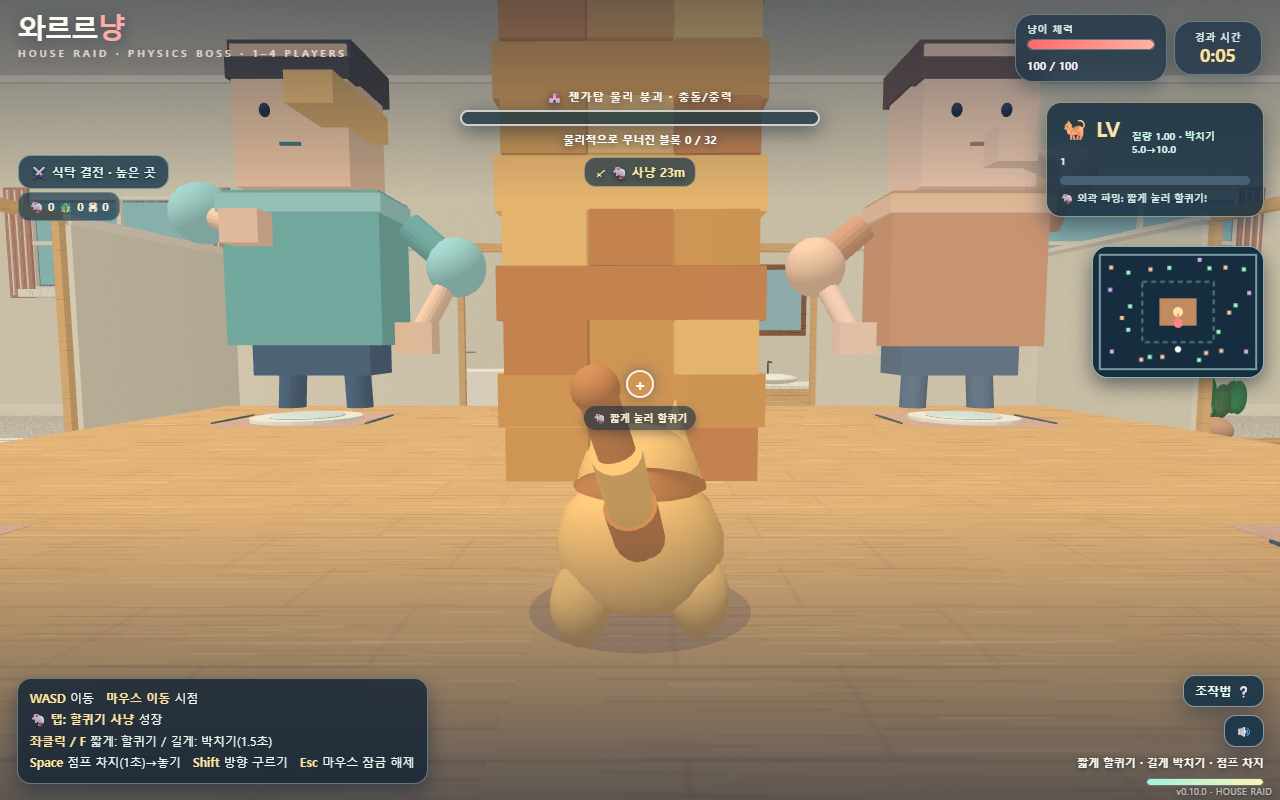
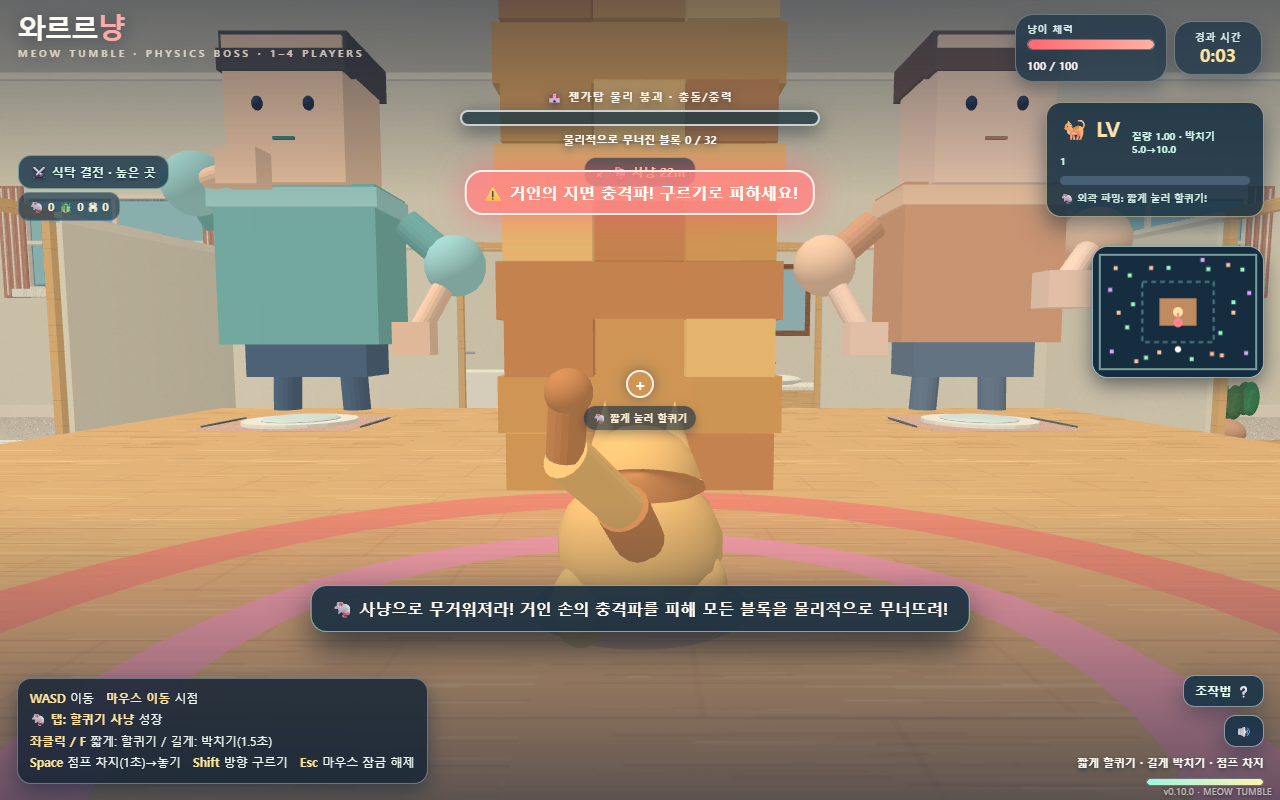
[docs] 화면과 진단 게임명을 와르르냥으로 통일

diff --git a/index.html b/index.html
@@ -127,12 +127,12 @@
 </head>
 <body>
 <div id="app">
- <canvas id="game" tabindex="0" aria-label="3D 고양이 젠가 게임"></canvas>
+ <canvas id="game" tabindex="0" aria-label="와르르냥 / Meow Tumble"></canvas>
  <div id="lookZone" aria-label="오른쪽 화면을 드래그하여 시점 회전"></div>
  <div id="boot">고양이에게 힘을 불어넣는 중… 🐈</div>
  <div id="error"></div>
  <div id="hud" class="inactive">
-  <div class="ui topbar"><div class="brand"><strong>와르르<b>냥</b></strong><span>HOUSE RAID · PHYSICS BOSS · 1–4 PLAYERS</span></div><div class="stats"><div class="stat heart"><span class="tiny">냥이 체력</span><div class="hpTrack"><i id="hpFill"></i></div><strong class="hpLabel" id="hpText">100 / 100</strong></div><div class="stat clock"><span class="tiny">경과 시간</span><strong id="clock">0:00</strong></div></div></div>
+  <div class="ui topbar"><div class="brand"><strong>와르르<b>냥</b></strong><span>MEOW TUMBLE · PHYSICS BOSS · 1–4 PLAYERS</span></div><div class="stats"><div class="stat heart"><span class="tiny">냥이 체력</span><div class="hpTrack"><i id="hpFill"></i></div><strong class="hpLabel" id="hpText">100 / 100</strong></div><div class="stat clock"><span class="tiny">경과 시간</span><strong id="clock">0:00</strong></div></div></div>
   <div class="ui centerHead"><div class="progressTitle">🏰 젠가탑 물리 붕괴 · 충돌/중력</div><div class="progressBox"><div class="progressFill" id="progressFill"></div></div><div class="progressFraction" id="fraction">물리적으로 무너진 블록 0 / 32</div></div>
  <div class="ui growthHud" id="growthHud"><div class="growthTop"><strong>🐈 LV <span id="level">1</span></strong><span id="power">질량 1.00 · 박치기 5~10</span></div><div class="growthBar"><i id="xpFill"></i></div><div class="growthHelp" id="growthHelp">🐁 쥐·곤충은 짧게 할퀴고, 탑은 차지 박치기로 무너뜨리세요</div></div>
  <div class="ui farmArrow" id="farmArrow">🐁 사냥터</div>
@@ -150,7 +150,7 @@
   <div class="bottomRight"><button id="helpBtn" class="tool">조작법 ❔</button><button id="soundBtn" class="tool">🔊</button><div id="status" class="status">박치기 1.5초 · 점프 1초 차지</div><div class="dashbar"><i id="dashReady"></i></div></div>
  </div>
  <div id="netRoster" aria-label="멀티플레이 참가자"></div><div id="netLabels" aria-hidden="true"></div>
- <div id="buildTag">v0.10.0 · HOUSE RAID</div>
+ <div id="buildTag">v0.10.0 · MEOW TUMBLE</div>
  <div id="touch"><div id="stick" class="joystick"><div id="knob" class="knob"></div></div><div class="actionPad"><button type="button" class="action" data-action="charge" aria-label="짧게 누르면 할퀴기, 0.25초 이상 길게 누르고 떼면 박치기"><strong>🐾</strong><small>탭 할퀴기 · 홀드 박치기</small><span class="chargeTrack"><i id="touchChargeFill"></i></span></button><button type="button" class="action" data-action="jump" aria-label="점프: 1초까지 누르고 떼서 점프"><strong>↥</strong><small>길게 눌러 점프</small><span class="chargeTrack jumpTrack"><i id="touchJumpFill"></i></span></button><button type="button" class="action" data-action="dodge"><strong>↻</strong><small>구르기</small></button></div><div class="touchTooltip">왼쪽 이동 · 오른쪽 화면 드래그로 시점 회전</div></div>
  <section id="intro" class="cover"><div class="hero"><div class="eyebrow">MEOW TUMBLE · 고양이 반란 작전</div><h1>와르르<em>냥</em></h1><p>인간 둘이 쌓는 <b>고양이보다 훨씬 거대한 젠가탑.</b><br>처음에는 몸이 가벼워 탑에 거의 충격을 못 줍니다.<br><b>집 전체를 누비며 <b>도망가는 쥐와 곤충, 공격하는 거미</b>를 사냥해 질량을 키우세요. 중앙 식탁으로 올라가 두 거인의 손을 피하면서 젠가탑을 물리적으로 무너뜨리세요. 체력이 0이 되어도 <b>성장·탑 진행도 손실 없이 고양이 잠자리에서 부활</b>합니다.</p><div class="pills"><span class="pill">🐈 작은 고양이 vs 거인 둘</span><span class="pill">🐁 쥐·곤충·거미 사냥 · 성장</span><span class="pill">💥 거인의 지면 충격파 · 공중 튕김</span><span class="pill">🏰 무너지는 거대 탑</span></div><button id="startBtn" type="button" class="primary">🐾 싱글 플레이 시작 →</button>
 <div class="roomSetup">
@@ -164,7 +164,7 @@
 </div>
 <script type="module">
 /* Bloom GameKit · v0.3.0 pinned published dist commit (2026-10-14). No duplicate input/loop/PRNG engine.
- * The 3D renderer, Rapier physics, gameplay and presentation remain owned by do meow no.
+ * The 3D renderer, Rapier physics, gameplay and presentation remain owned by Meow Tumble.
  * Browser WebRTC uses the official group-room transport, never a second signaling stack. */
 const GAMEKIT_PIN='63c62dae8d339f6f0329c0940206806f69509630';
 const GAMEKIT_CDN=`https://cdn.jsdelivr.net/gh/byh-playground/bloom-gamekit@${GAMEKIT_PIN}/`;
@@ -1388,7 +1388,7 @@ function updateGame(dt,frame){if(phase!=='play'&&phase!=='collapse')return;
  if(messageUntil&&seconds*1000>messageUntil){ui.message.classList.remove('show');messageUntil=0}
 }
 // ---- Toon 3D world (code-only, no textures/assets) ----
-/* do meow no — handcrafted procedural house art. All props are display-only except
+/* Meow Tumble — handcrafted procedural house art. All props are display-only except
    the large colliders enumerated by HOUSE_SOLIDS (single authoritative physics list).
    All art parameters live in these presets; renderer retains no scene logic. */
 const HOUSE_STYLE=Object.freeze({
@@ -2547,7 +2547,7 @@ async function main(){try{
  }catch(error){document.querySelector('#boot').textContent='게임 실행 실패: '+(error.message||error);
  document.querySelector('#error').textContent=String(error.stack||error);
  document.querySelector('#error').classList.add('show');console.error(error);}}
-window.__doMeowNo={get state(){return{phase,seconds,fallen:tower.scattered,total:tower.blocks.length,movingBlocks:tower.movingBlocks,collapse:collapseState?{...collapseState}:null,
+window.__meowTumble={get state(){return{product:"와르르냥 / Meow Tumble",phase,seconds,fallen:tower.scattered,total:tower.blocks.length,movingBlocks:tower.movingBlocks,collapse:collapseState?{...collapseState}:null,
  level:cat?.level,xp:cat?.xp,mass:cat?.mass,hp:cat?.hp,animation:cat?.motion?.state,animationMs:cat?.motion?.elapsedMs,maxHp:DEF.cat.maxHp,kills:{...kills},mobs:mobs.length,zone:cat?zoneAt(cat.x,cat.z):null,respawning:cat?.motion?.state==='dead',cat:cat?{x:cat.x,z:cat.z,y:cat.y,yaw:cat.yaw,
  knockX:cat.knockX,knockZ:cat.knockZ,vy:cat.vy}:null,camera:camera?{yaw:camera.yaw,pitch:camera.pitch,eye:camera.eye.slice()}:null,
  controls:{lookPointer:look.id,joyPointer:joy.id},layers:tower.layers,activeBodies:tower.blocks.length-tower.sleeperCount,
